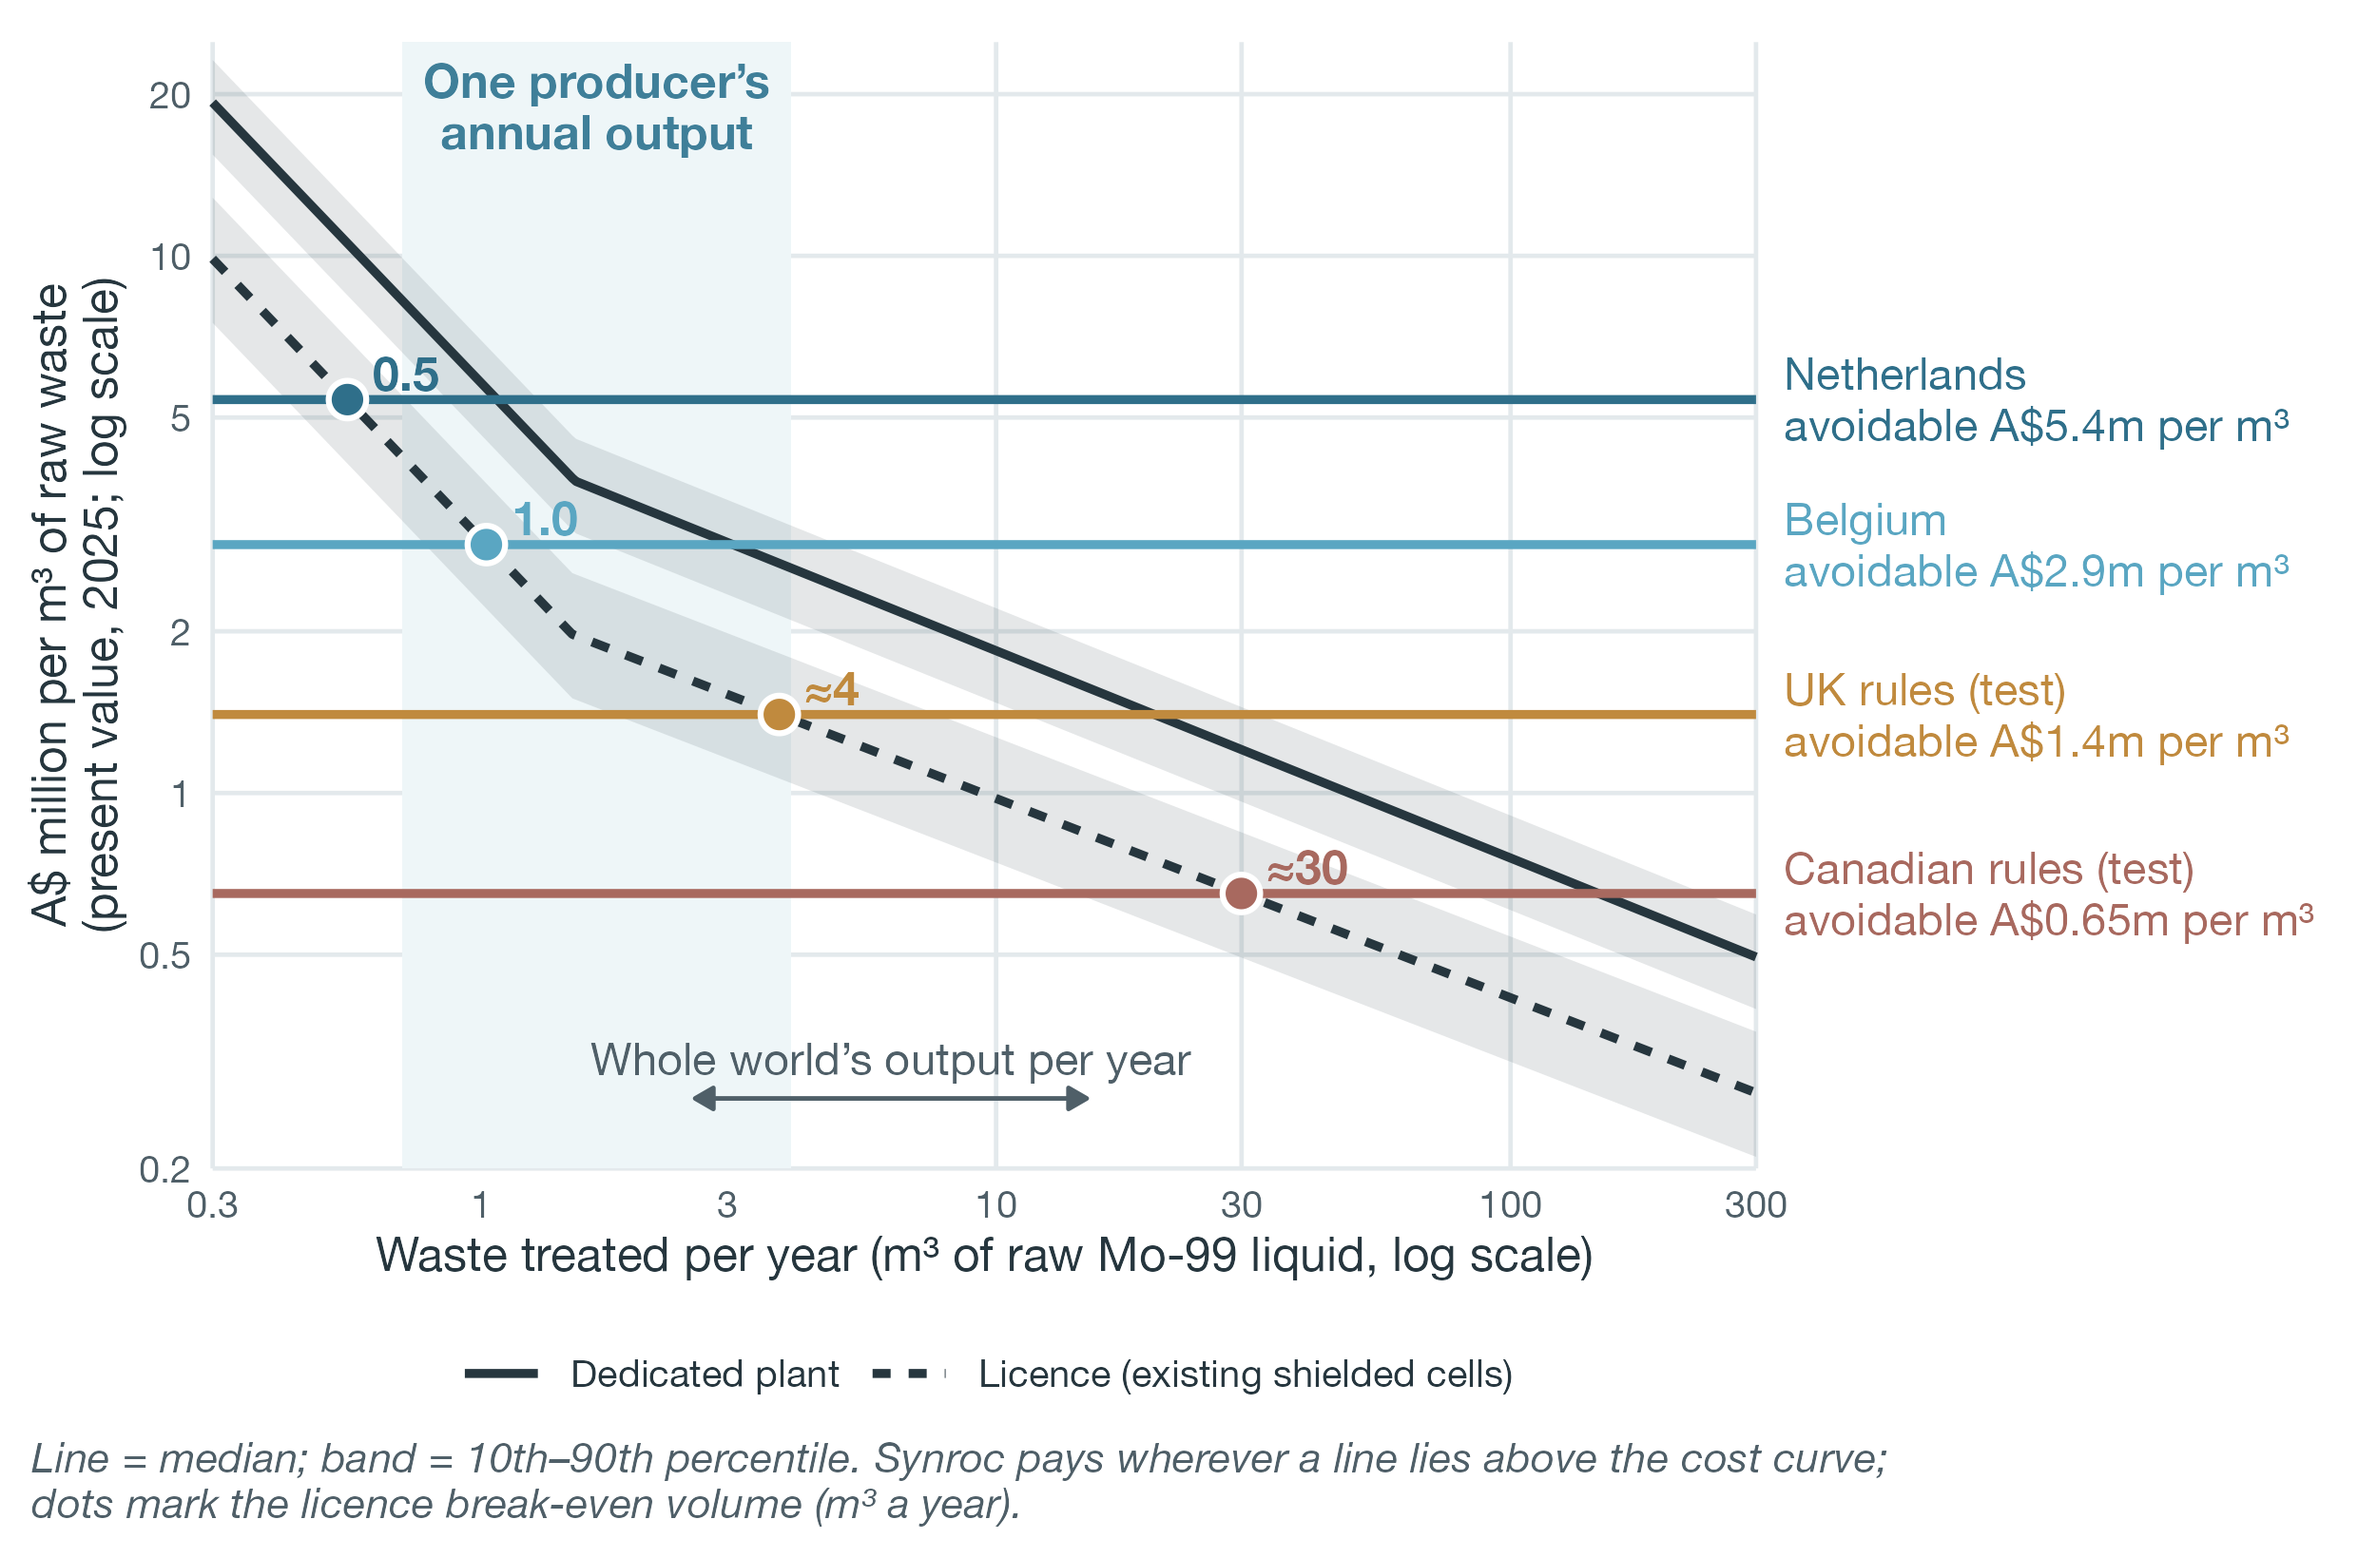
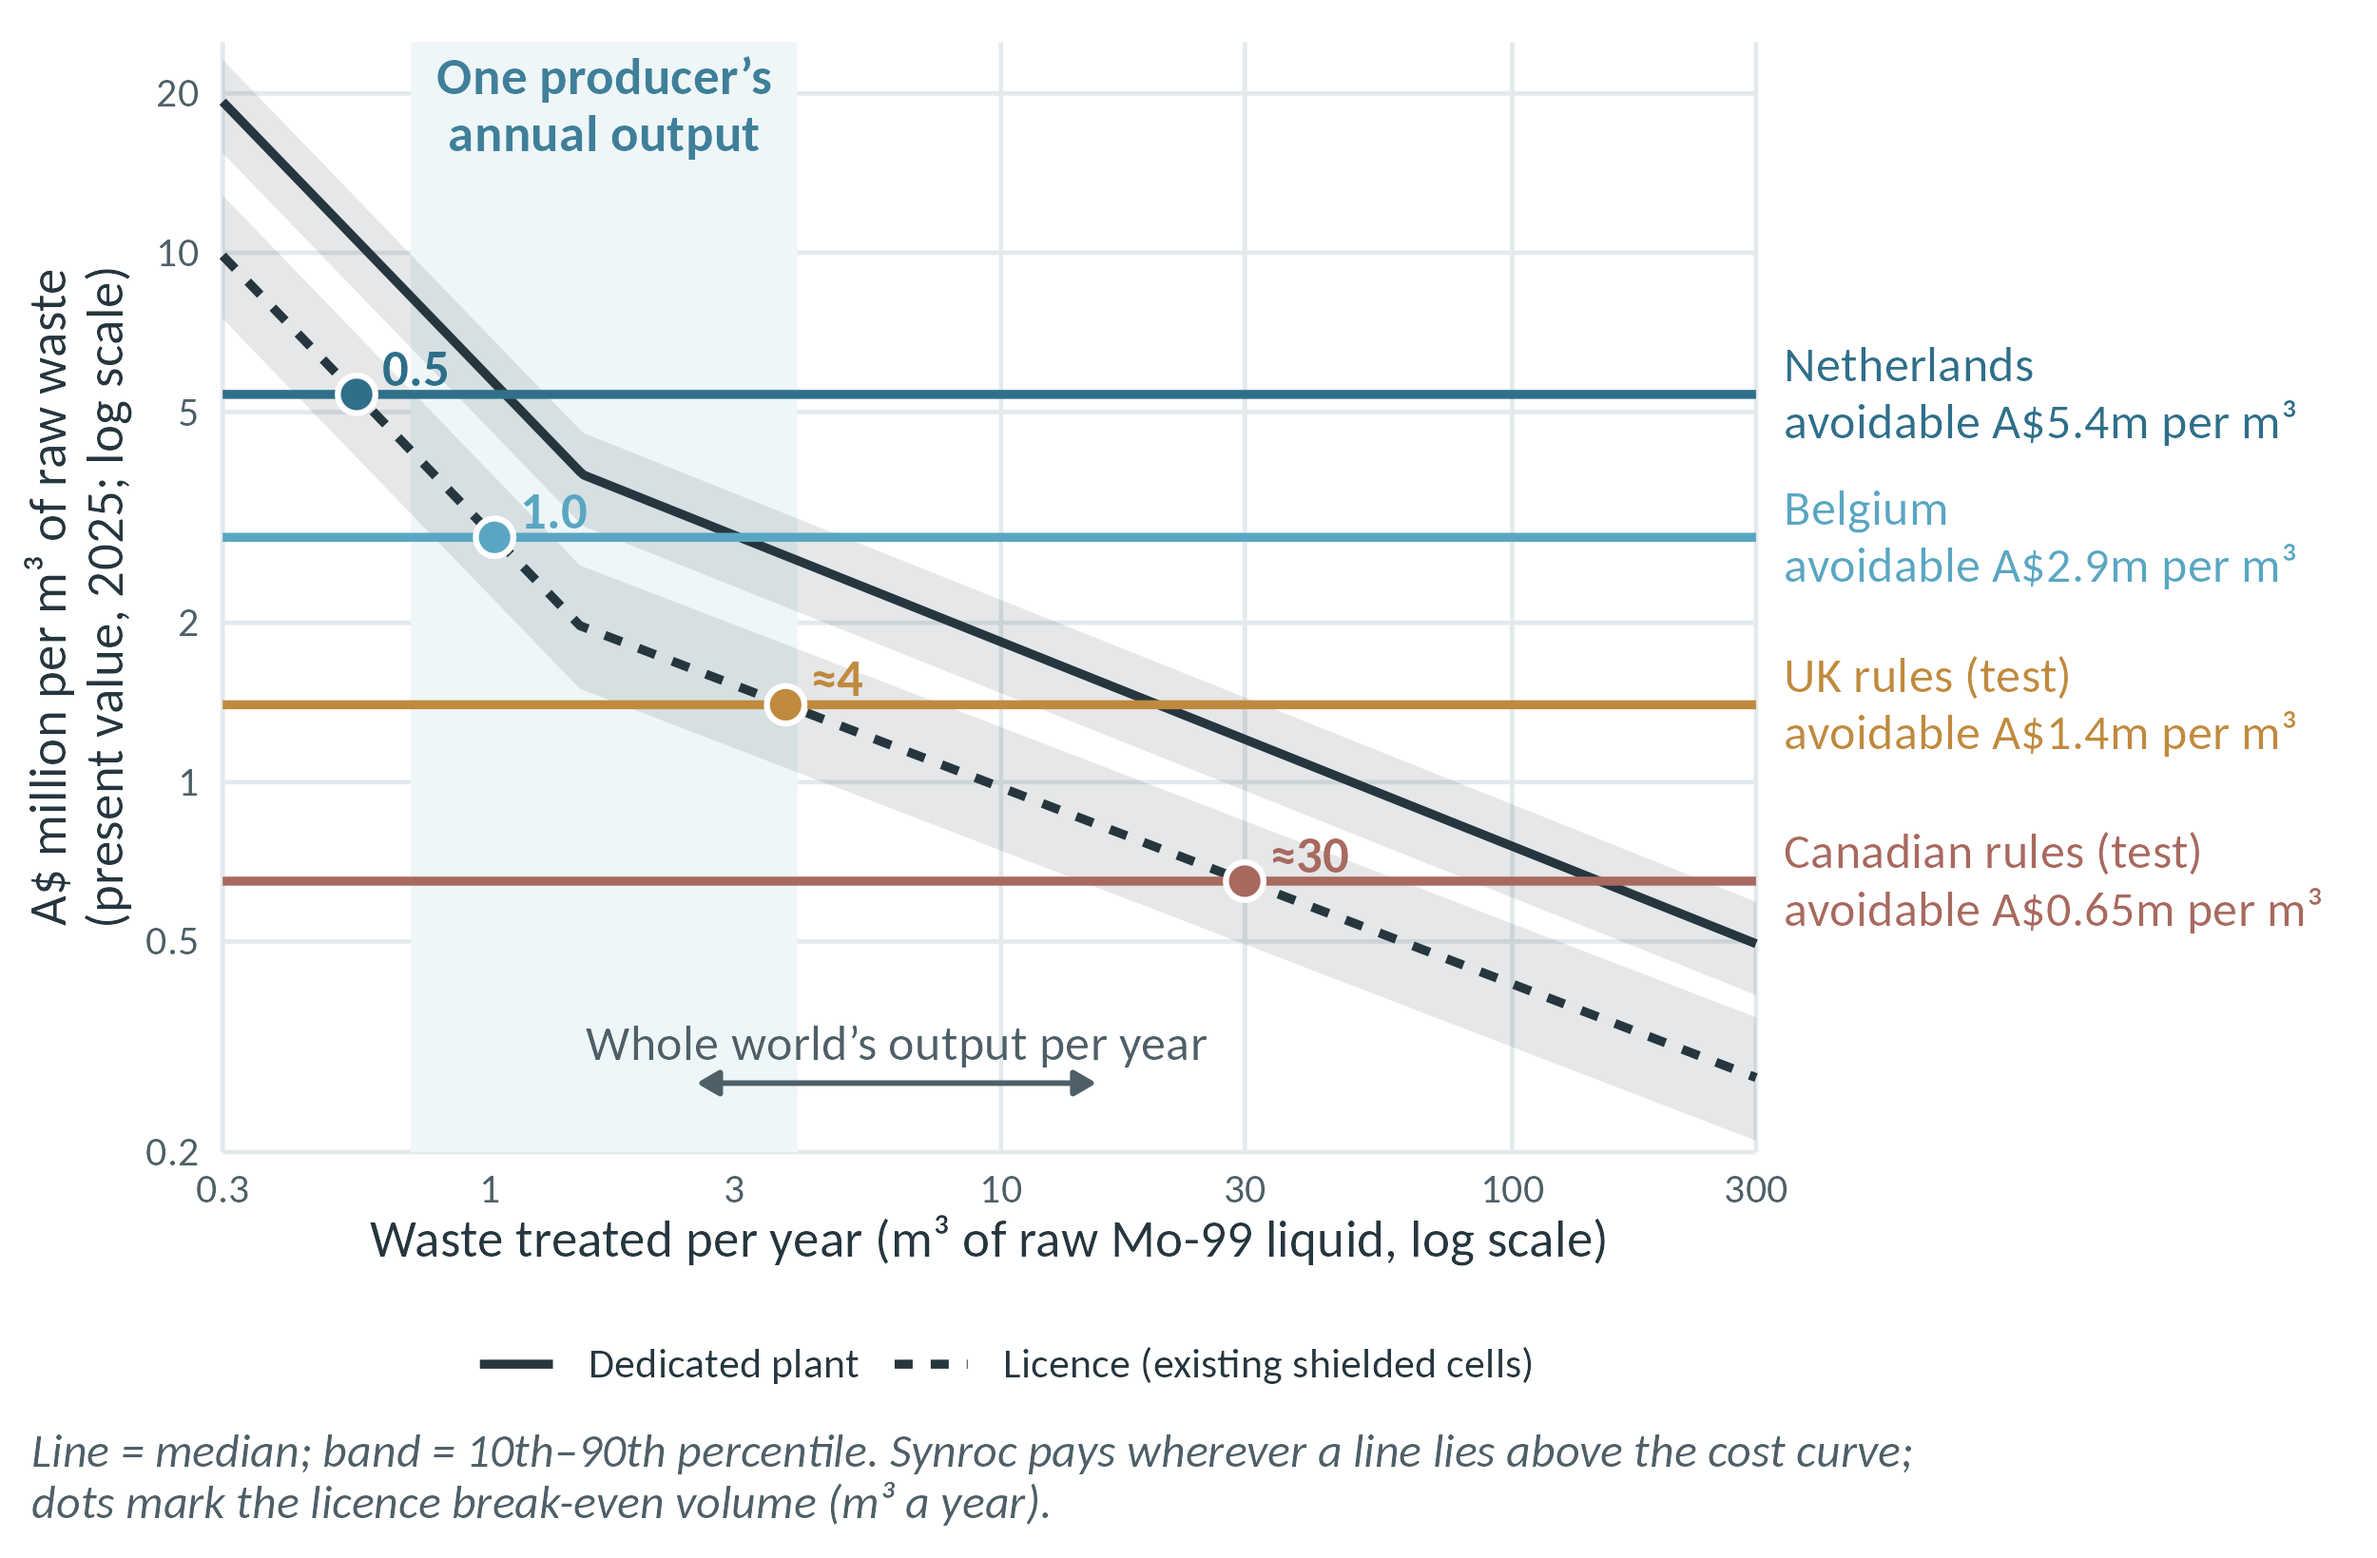
final push

diff --git a/README.md b/README.md
@@ -1,6 +1,6 @@
 # Licensing Synroc abroad: decision model and figures
 
-Code and data behind the SCPU3001 Group Project Report for ANSTO, *Where should ANSTO license Synroc first?* The report screens eight jurisdictions with a two-stage multi-criteria decision analysis (MCDA), tests the ranking for robustness, and uses a Monte Carlo cost model to check whether Synroc beats cementation for each waste stream.
+Code and data behind the SCPU3001 Group Project Report for ANSTO, *Where Can Synroc Succeed Abroad?* The report screens eight jurisdictions with a two-stage multi-criteria decision analysis (MCDA), tests the ranking for robustness, and uses a Monte Carlo cost model to check whether Synroc beats cementation for each waste stream.
 
 The interactive version for ANSTO staff is at
 <https://delphinepadang.github.io/Licensing_Synroc_ANSTO/docs/index.html#questions>
